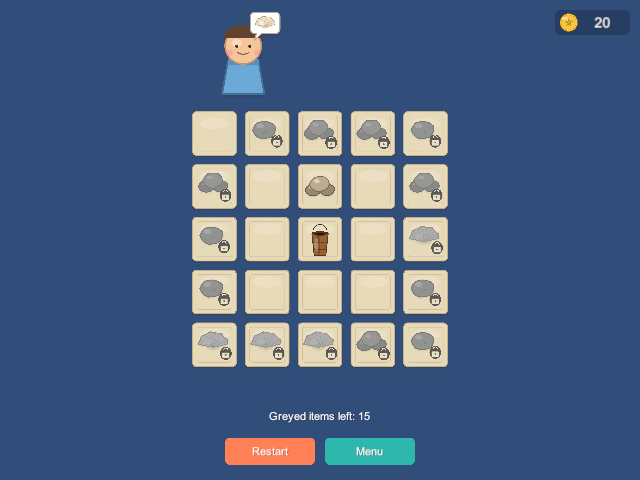
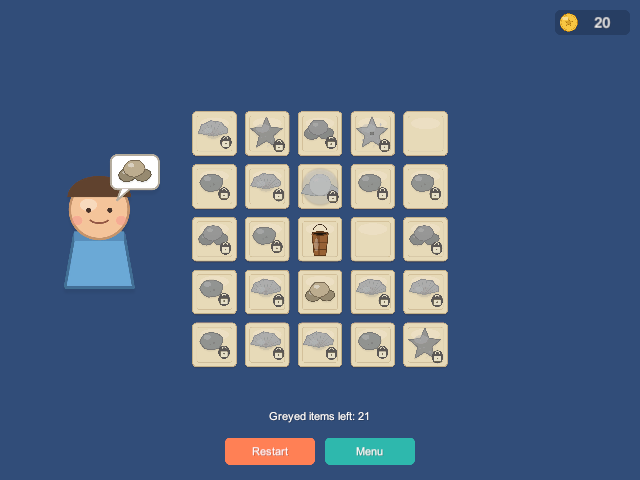
Harder boards, distinct conch sprite, and adaptive villager placement
- Boards start with 2 empty cells and can grey out any tier; every board gets a Pearl and a Starfish
- Shiny Shell redrawn as a spiral conch so it reads differently from the Shell when greyed
- Villager stands beside the board on wide screens and above it on tall ones
- Sync physics after moving the villager so drops land on its new position
- README screenshots and text updated

diff --git a/Assets/Tests/PlayMode/PlaytestBot.cs b/Assets/Tests/PlayMode/PlaytestBot.cs
@@ -79,15 +79,19 @@ public class PlaytestBot
         Assert.AreEqual(GameState.Playing, game.State, "Play should start the game");
         Assert.IsFalse(ui.MenuPanel.activeSelf);
         Screenshot("start");
+        yield return ShotAtAspect("start_16x9", 1600, 900);
+        yield return ShotAtAspect("start_9x16", 900, 1600);
 
         var cells = board.cells.Cast<BoardCell>().Where(c => c != null).ToList();
         Assert.AreEqual(24, cells.Count, "board should have 24 playable cells");
-        Assert.AreEqual(8, cells.Count(c => c.state == CellState.Empty), "cells around bucket should start empty");
-        Assert.AreEqual(16, cells.Count(c => c.state == CellState.Locked), "rest of board should start greyed");
+        Assert.AreEqual(2, cells.Count(c => c.state == CellState.Empty), "only 2 cells should start empty");
+        Assert.AreEqual(22, cells.Count(c => c.state == CellState.Locked), "rest of board should start greyed");
+        Assert.IsTrue(cells.Any(c => c.state == CellState.Locked && c.item.tier == 7), "every board should have a greyed Pearl");
+        Assert.IsTrue(cells.Any(c => c.state == CellState.Locked && c.item.tier == 5), "every board should have a greyed Starfish");
 
         for (int i = 0; i < 3; i++) yield return Click(game.bucket.transform.position);
         var items = Items();
-        Assert.AreEqual(3, items.Length, "3 bucket clicks should produce 3 items");
+        Assert.AreEqual(2, items.Length, "bucket should only fill the 2 empty cells, then stop");
         Assert.IsTrue(items.All(i => i.boardRow >= 0), "every spawned item should sit in a cell");
 
         MergeItem a = items[0], b = items[1];
@@ -97,15 +101,17 @@ public class PlaytestBot
         Assert.AreEqual(CellState.Empty, board.GetCell(aRow, aCol).state, "source cell should be freed by a merge");
         Assert.AreEqual(expected, board.GetCell(bRow, bCol).item, "target cell should hold the next tier");
 
+        yield return Click(game.bucket.transform.position);
+        Assert.AreEqual(2, Items().Length, "the freed cell should take a new bucket drop");
+
         MergeItem pebble = Items().First(i => i.data.tier == 1);
         BoardCell lockedPebble = cells.FirstOrDefault(c => c.state == CellState.Locked && c.item == pebble.data);
-        if (lockedPebble != null)
-        {
-            int lockedBefore = board.RemainingLocked;
-            yield return Drag(pebble.transform.position, board.GetWorldPosition(lockedPebble.row, lockedPebble.col));
-            Assert.AreEqual(CellState.Filled, lockedPebble.state, "greyed cell should unlock");
-            Assert.AreEqual(lockedBefore - 1, board.RemainingLocked);
-        }
+        Assert.IsNotNull(lockedPebble, "every board should have a greyed Pebble to start with");
+        int lockedBefore = board.RemainingLocked;
+        yield return Drag(pebble.transform.position, board.GetWorldPosition(lockedPebble.row, lockedPebble.col));
+        Assert.AreEqual(CellState.Filled, lockedPebble.state, "greyed cell should unlock");
+        Assert.AreEqual(pebble.data.nextTierItem, lockedPebble.item, "unlocking should merge into the next tier");
+        Assert.AreEqual(lockedBefore - 1, board.RemainingLocked);
 
         MergeItem any = Items().First();
         BoardCell mismatch = cells.FirstOrDefault(c => c.state == CellState.Locked && c.item != any.data);
@@ -137,7 +143,7 @@ public class PlaytestBot
 
         yield return ClickUI(ui.PlayAgainButton);
         Assert.AreEqual(GameState.Playing, game.State);
-        Assert.AreEqual(16, board.RemainingLocked, "play again should deal a fresh board");
+        Assert.AreEqual(22, board.RemainingLocked, "play again should deal a fresh board");
         Assert.AreEqual(0, Items().Length, "old items should be cleared on restart");
 
         yield return ClickUI(ui.HudMenuButton);
@@ -202,7 +208,7 @@ public class PlaytestBot
         Vector2 to = cam.WorldToScreenPoint(toWorld);
         yield return SetMouse(from, false);
         yield return SetMouse(from, true);
-        Assert.IsNotNull(Object.FindFirstObjectByType<DragController>().heldItem, $"bot failed to pick up the item at {fromWorld}");
+        Assert.IsNotNull(Object.FindAnyObjectByType<DragController>().heldItem, $"bot failed to pick up the item at {fromWorld}");
         yield return SetMouse(Vector2.Lerp(from, to, 0.5f), true);
         yield return SetMouse(to, true);
         yield return SetMouse(to, false);
@@ -216,6 +222,20 @@ public class PlaytestBot
         var state = new MouseState { position = screen };
         if (pressed) state = state.WithButton(MouseButton.Left);
         InputSystem.QueueStateEvent(mouse, state);
+        yield return null;
+        yield return null;
+    }
+
+    // Renders the scene as a screen of the given size would see it, letting layout code react to the aspect first.
+    IEnumerator ShotAtAspect(string label, int width, int height)
+    {
+        var rt = new RenderTexture(width, height, 24);
+        cam.targetTexture = rt;
+        yield return null;
+        yield return null;
+        cam.targetTexture = null;
+        rt.Release();
+        SaveCameraShot(label, width, height);
         yield return null;
         yield return null;
     }

diff --git a/Assets/Scripts/BoardManager.cs b/Assets/Scripts/BoardManager.cs
@@ -1,6 +1,7 @@
 using UnityEngine;
 using System;
 using System.Collections.Generic;
+using System.Linq;
 
 public class BoardManager : MonoBehaviour
 {
@@ -13,8 +14,11 @@ public class BoardManager : MonoBehaviour
     public List<ItemData> allItems;
     public int bucketRow = 2;
     public int bucketCol = 2;
-    public int openRadiusAroundBucket = 1;
-    public int maxLockedTier = 4;
+    public int startingEmptyCells = 2;
+    public int maxLockedTier = 7;
+    // Tiers every board is guaranteed to contain as greyed items: a Pearl and a Starfish to aim for,
+    // and a few Pebbles so the opening moves are never stuck.
+    public int[] guaranteedLockedTiers = { 7, 5, 1, 1, 1 };
 
     public BoardCell[,] cells;
     private BoardSlotView[,] slotViews;
@@ -34,16 +38,29 @@ public class BoardManager : MonoBehaviour
 
         SpawnTile(bucketRow, bucketCol).ShowEmpty();
 
+        var cellsToLock = new List<BoardCell>();
         for (int row = 0; row < rows; row++)
         {
             for (int col = 0; col < columns; col++)
             {
                 if (row == bucketRow && col == bucketCol) continue;
-
                 SpawnSlot(row, col);
-                bool nearBucket = Mathf.Max(Mathf.Abs(row - bucketRow), Mathf.Abs(col - bucketCol)) <= openRadiusAroundBucket;
-                if (!nearBucket) LockCell(row, col, PickLockedTarget());
+                cellsToLock.Add(cells[row, col]);
             }
+        }
+
+        // Leave a few cells right next to the bucket open; everything else starts greyed out.
+        var nextToBucket = cellsToLock
+            .Where(c => Mathf.Abs(c.row - bucketRow) + Mathf.Abs(c.col - bucketCol) == 1)
+            .OrderBy(_ => UnityEngine.Random.value)
+            .Take(startingEmptyCells);
+        foreach (BoardCell open in nextToBucket.ToList()) cellsToLock.Remove(open);
+
+        cellsToLock = cellsToLock.OrderBy(_ => UnityEngine.Random.value).ToList();
+        for (int i = 0; i < cellsToLock.Count; i++)
+        {
+            ItemData guaranteed = i < guaranteedLockedTiers.Length ? allItems.Find(it => it.tier == guaranteedLockedTiers[i]) : null;
+            LockCell(cellsToLock[i].row, cellsToLock[i].col, guaranteed ?? PickLockedTarget());
         }
         OnLockedCountChanged?.Invoke();
     }

diff --git a/Assets/Scripts/VillagerManager.cs b/Assets/Scripts/VillagerManager.cs
@@ -9,10 +9,40 @@ public class VillagerManager : MonoBehaviour
     public int maxRequestTier = 4;
     public SpriteRenderer requestIcon;
 
+    // Tall screens keep the villager above the board; wide screens have room beside it.
+    public Vector3 portraitPosition = new Vector3(-1.6f, 3.9f, 0f);
+    public float portraitScale = 0.4f;
+    public Vector3 landscapePosition = new Vector3(-4.6f, 0.4f, 0f);
+    public float landscapeScale = 0.65f;
+    public float landscapeMinAspect = 1.2f;
+
+    Camera mainCamera;
+    bool? placedWide;
+
     void Start()
     {
+        mainCamera = Camera.main;
         if (requestIcon == null) CreateRequestIcon();
+        FitToScreen();
         RollNewRequest();
+    }
+
+    void Update()
+    {
+        FitToScreen();
+    }
+
+    void FitToScreen()
+    {
+        bool wide = mainCamera.aspect >= landscapeMinAspect;
+        if (placedWide == wide) return;
+
+        placedWide = wide;
+        transform.position = wide ? landscapePosition : portraitPosition;
+        float scale = wide ? landscapeScale : portraitScale;
+        transform.localScale = new Vector3(scale, scale, 1f);
+        // Move the drop zone with the sprite now, not at the next physics step.
+        Physics2D.SyncTransforms();
     }
 
     void CreateRequestIcon()

diff --git a/README.md b/README.md
@@ -13,13 +13,16 @@ A small 2D merge-puzzle game made in Unity, inspired by the board in *Travel Tow
 **Goal:** clear every greyed-out item from the board.
 
 <p align="center">
-  <img src="docs/screenshots/board_start.png" width="60%" alt="A fresh board" />
+  <img src="docs/screenshots/board_start.png" width="58%" alt="A fresh board" />
+  <img src="docs/screenshots/portrait.png" width="22%" alt="The same board on a phone-shaped screen" />
 </p>
 
-1. **Tap the bucket** in the middle of the board. It drops a new item into the nearest empty cell. If there are no empty cells, it can't drop anything, so keep some space free.
+Every board starts almost full: only two cells next to the bucket are empty. Greyed-out items can be anything in the merge chain, and every board has at least one greyed Pearl and one greyed Starfish to work toward.
+
+1. **Tap the bucket** in the middle of the board. It drops a new item into the nearest empty cell. If there are no empty cells, it can't drop anything, so space is your most important resource.
 2. **Merge by dragging.** Drop an item onto an identical item and they combine into the next item in the chain. The cell you dragged from becomes empty again.
 3. **Free greyed-out items.** A greyed-out item with a lock shows what it's waiting for. Drag a matching item onto it and the two merge into the next tier, unlocking that cell for good.
-4. **Help the villager.** The villager above the board shows what they want in their speech bubble. Drag that item onto them to earn coins. Higher-tier requests pay more.
+4. **Help the villager.** The villager next to the board shows what they want in their speech bubble. Drag that item onto them to earn coins. Higher-tier requests pay more.
 5. **Clear the board.** When the last greyed-out item is freed, you'll see how many coins you earned that round, and you can play again on a new board.
 
 Dropping an item anywhere it can't go (a different item, a locked cell that wants something else, empty space) just sends it back to where it was.
@@ -64,7 +67,7 @@ During a round, **Restart** deals a new board and **Menu** returns to the start 
 2. Clone this repository and open the folder in Unity Hub (**Add → Add project from disk**).
 3. Open `Assets/Scenes/SampleScene.unity` and press **Play**.
 
-The game is laid out for a phone screen but works at any aspect ratio in the Game view. Input uses the new Input System, so both mouse and touch work.
+The layout adapts to the screen: on wide screens the villager stands beside the board, on phone-shaped screens above it. Input uses the new Input System, so both mouse and touch work.
 
 Your coins, bucket level and music setting are saved to `save.json` in Unity's per-user data folder (`Application.persistentDataPath`), e.g. `%USERPROFILE%\AppData\LocalLow\DefaultCompany\travel_town__mimic\` on Windows.
 
